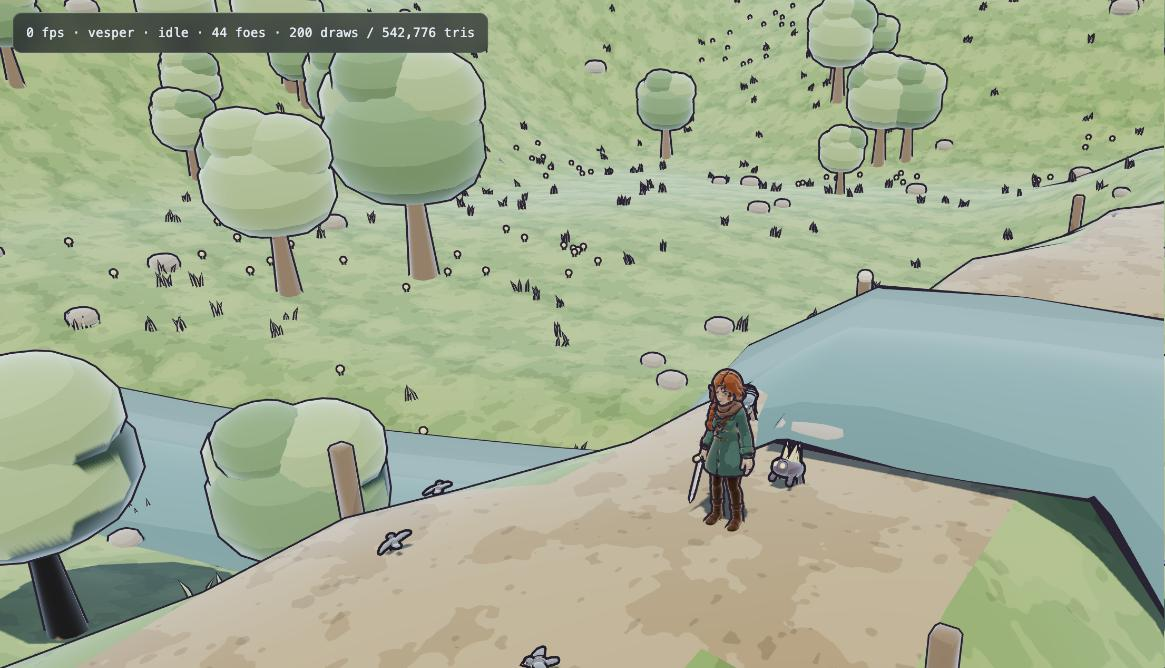
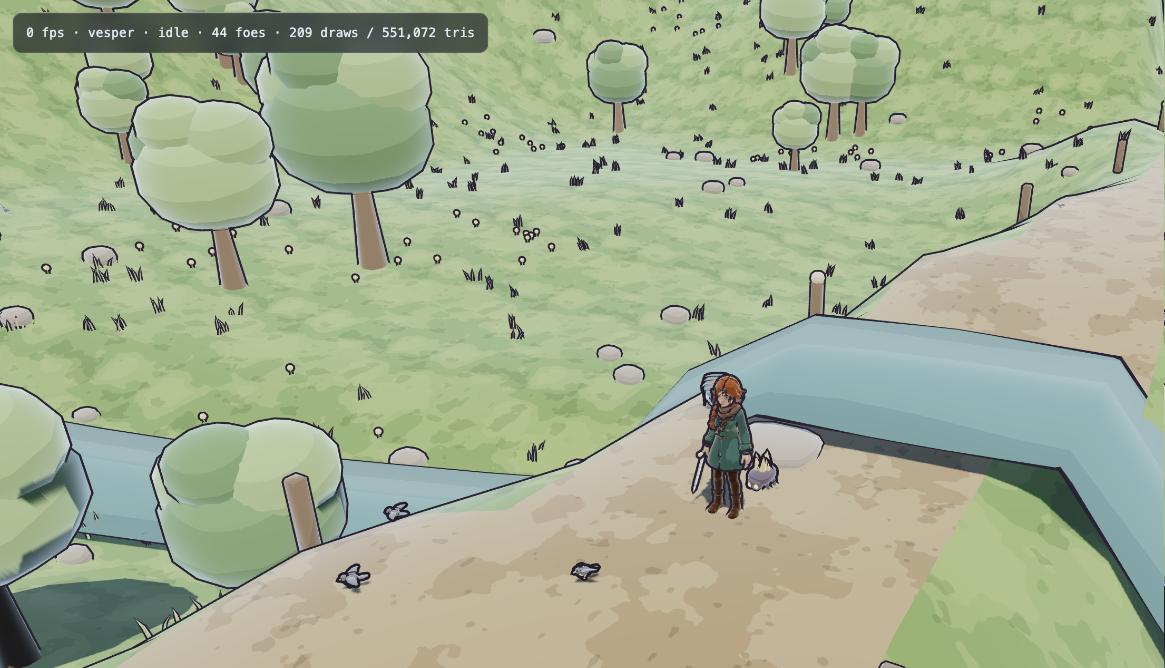
Wind-ups glow, and the stream stays in its bed
Every tell in this game is a shape change, which is the right idea and reads
beautifully at four metres. At fighting distance an enemy is about forty-five
pixels tall, where a silhouette change is a smudge becoming a slightly
different smudge. So the tell now pulses too, in the species' own accent --
bone for the swarmer, cyan for the charger, ember for the brute. Colour
survives at sizes shape does not.

Also narrowed the water: the channel only reaches full depth within 45% of its
half-width, so a wider ribbon rode up the banks and left a straight edge of
water lying across sloping ground.

diff --git a/public/js/combat.js b/public/js/combat.js
@@ -156,6 +156,15 @@ const _v2 = new THREE.Vector3();
 const _fv = new THREE.Vector3();
 const _hit = { x: 0, z: 0 };
 
+// The colour each species owns, matched to its palette accent, used for the
+// telegraph pulse. Kept out here so it is one allocation, not one per frame.
+const TELL = {
+  nettle: new THREE.Color(0xffe9a8),
+  curler: new THREE.Color(0x63dcff),
+  bellow: new THREE.Color(0xff7a26),
+  _: new THREE.Color(0xffffff),
+};
+
 function pickClip(clips, want, fallback) {
   return clips[want] ? want : (clips[fallback] ? fallback : null);
 }
@@ -801,8 +810,24 @@ export function createCombat(ctx) {
     }
     e.mixer.update(dt);
     if (e.flash > 0) e.flash -= dt;
+
+    // THE WIND-UP GLOWS.
+    //
+    // Every tell in this game is a shape change, which is the right idea and
+    // reads beautifully at four metres -- and at fighting distance an enemy is
+    // about forty-five pixels tall, where a silhouette change is a smudge
+    // becoming a slightly different smudge. So the tell also pulses, in the
+    // species' own accent: bone for the swarmer, cyan for the charger, ember
+    // for the brute. Colour survives at any size the shape does not.
+    const winding = e.state === 'telegraph';
+    const pulse = winding
+      ? 0.30 + 0.34 * Math.sin(e.t / Math.max(0.08, e.spec.telegraph) * 11.0)
+      : 0;
     for (const m of e.mats) {
-      if (m.emissive) m.emissive.setScalar(e.flash > 0 ? 0.55 : 0);
+      if (!m.emissive) continue;
+      if (e.flash > 0) m.emissive.setScalar(0.55);
+      else if (pulse > 0) m.emissive.copy(TELL[e.name] || TELL._).multiplyScalar(pulse);
+      else m.emissive.setScalar(0);
     }
 
     if (e.dead) {

diff --git a/tools/meadow_build.py b/tools/meadow_build.py
@@ -358,7 +358,10 @@ def stream(M, t):
         # five-metre vertical sheet of water standing in a field. This is the
         # same rx/ry trap the fountain wall and the gate arch both hit.
         sec.append({"p": Vector((x, y, bed + 0.42)),
-                    "r": (STREAM_HALF * 0.86, 0.04), "n": 3.6})
+                    # 0.52, not 0.86: the cut only reaches full depth within 45% of
+                    # STREAM_HALF, so a wider ribbon rode up the banks and left a
+                    # straight edge of water lying across sloping ground
+                    "r": (STREAM_HALF * 0.52, 0.04), "n": 3.6})
     t.add(K.tube("water", sec, seg=4, mat=M["water"], squircle=3.6, up=(0, 0, 1)))
 
     # WET STONES ALONG THE BANKS. A cut in a heightfield has no edge treatment,

diff --git a/docs/COMBAT-BAR.md b/docs/COMBAT-BAR.md
@@ -115,6 +115,10 @@ instrument the measurement before you change the thing.
 - [x] death: collapse clip with a bone-scale flatten, then a fade
 
 ### Enemy behaviour
+- [x] the wind-up is legible at fighting distance, not just at four metres —
+      the tell pulses in the species' accent (bone / cyan / ember) as well as
+      changing shape, because at ~45 px a silhouette change is a smudge
+      becoming a slightly different smudge
 - [x] full cycle: idle → approach → telegraph → attack → recover — probe saw
       enemies in `telegraph` and `attack` states
 - [x] the telegraph is a 520 ms held shape change (spines snap upright)
@@ -231,9 +235,9 @@ whole cluster is fixed above. What it found that is still open:
    another project, retargeted and re-rigged here — the README says so, but the
    "everything is scripted geometry" framing does not hold for the character you
    look at the whole time.
-6. **Enemy tells are silhouette-only** on a target ~45 px tall at fighting
-   distance. Palette now carries role (bone / cyan / ember), which helps, but
-   there is no ground indicator or flash on the wind-up itself.
+6. **Tells still have no ground footprint.** They pulse and they change shape,
+   but nothing shows you *where* an attack will land, so reading a Curler's
+   committed line is a matter of watching which way it is pointing.
 
 *Answered from the audit:* the whole enemy-attack cluster above; **no textures
 anywhere** (the plaza, terrace, meadow grass and worn path are all generated
